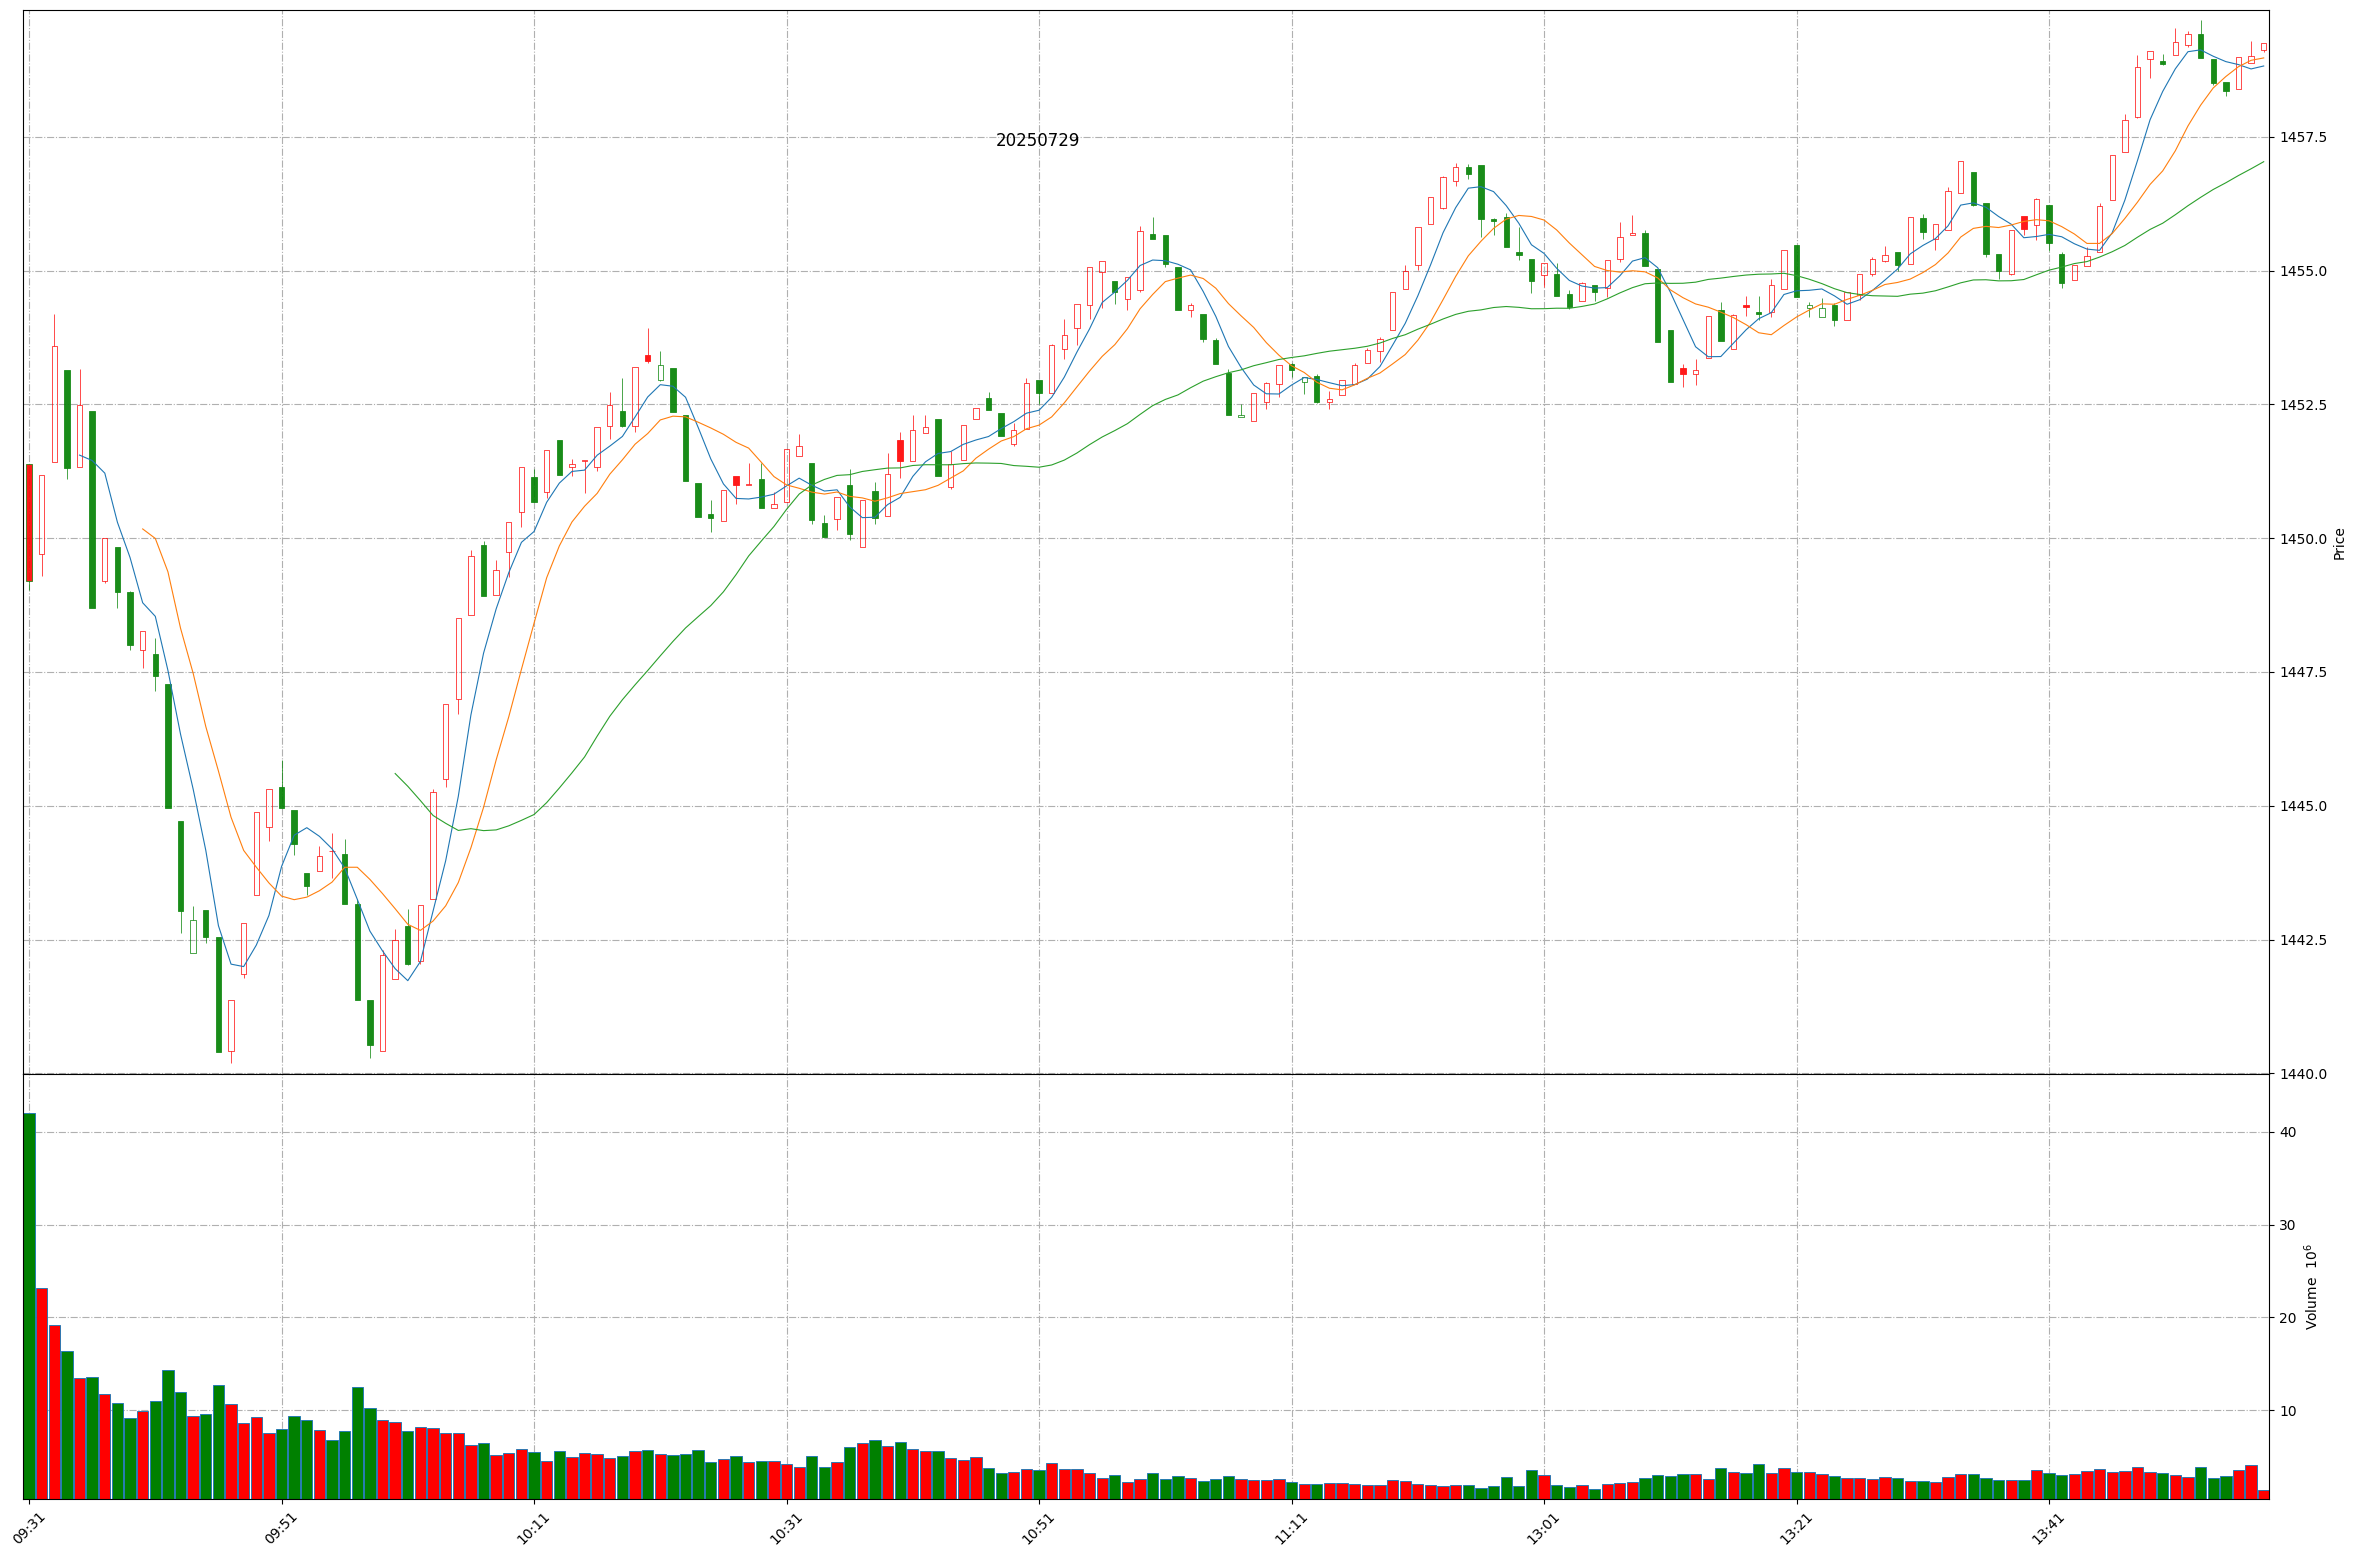
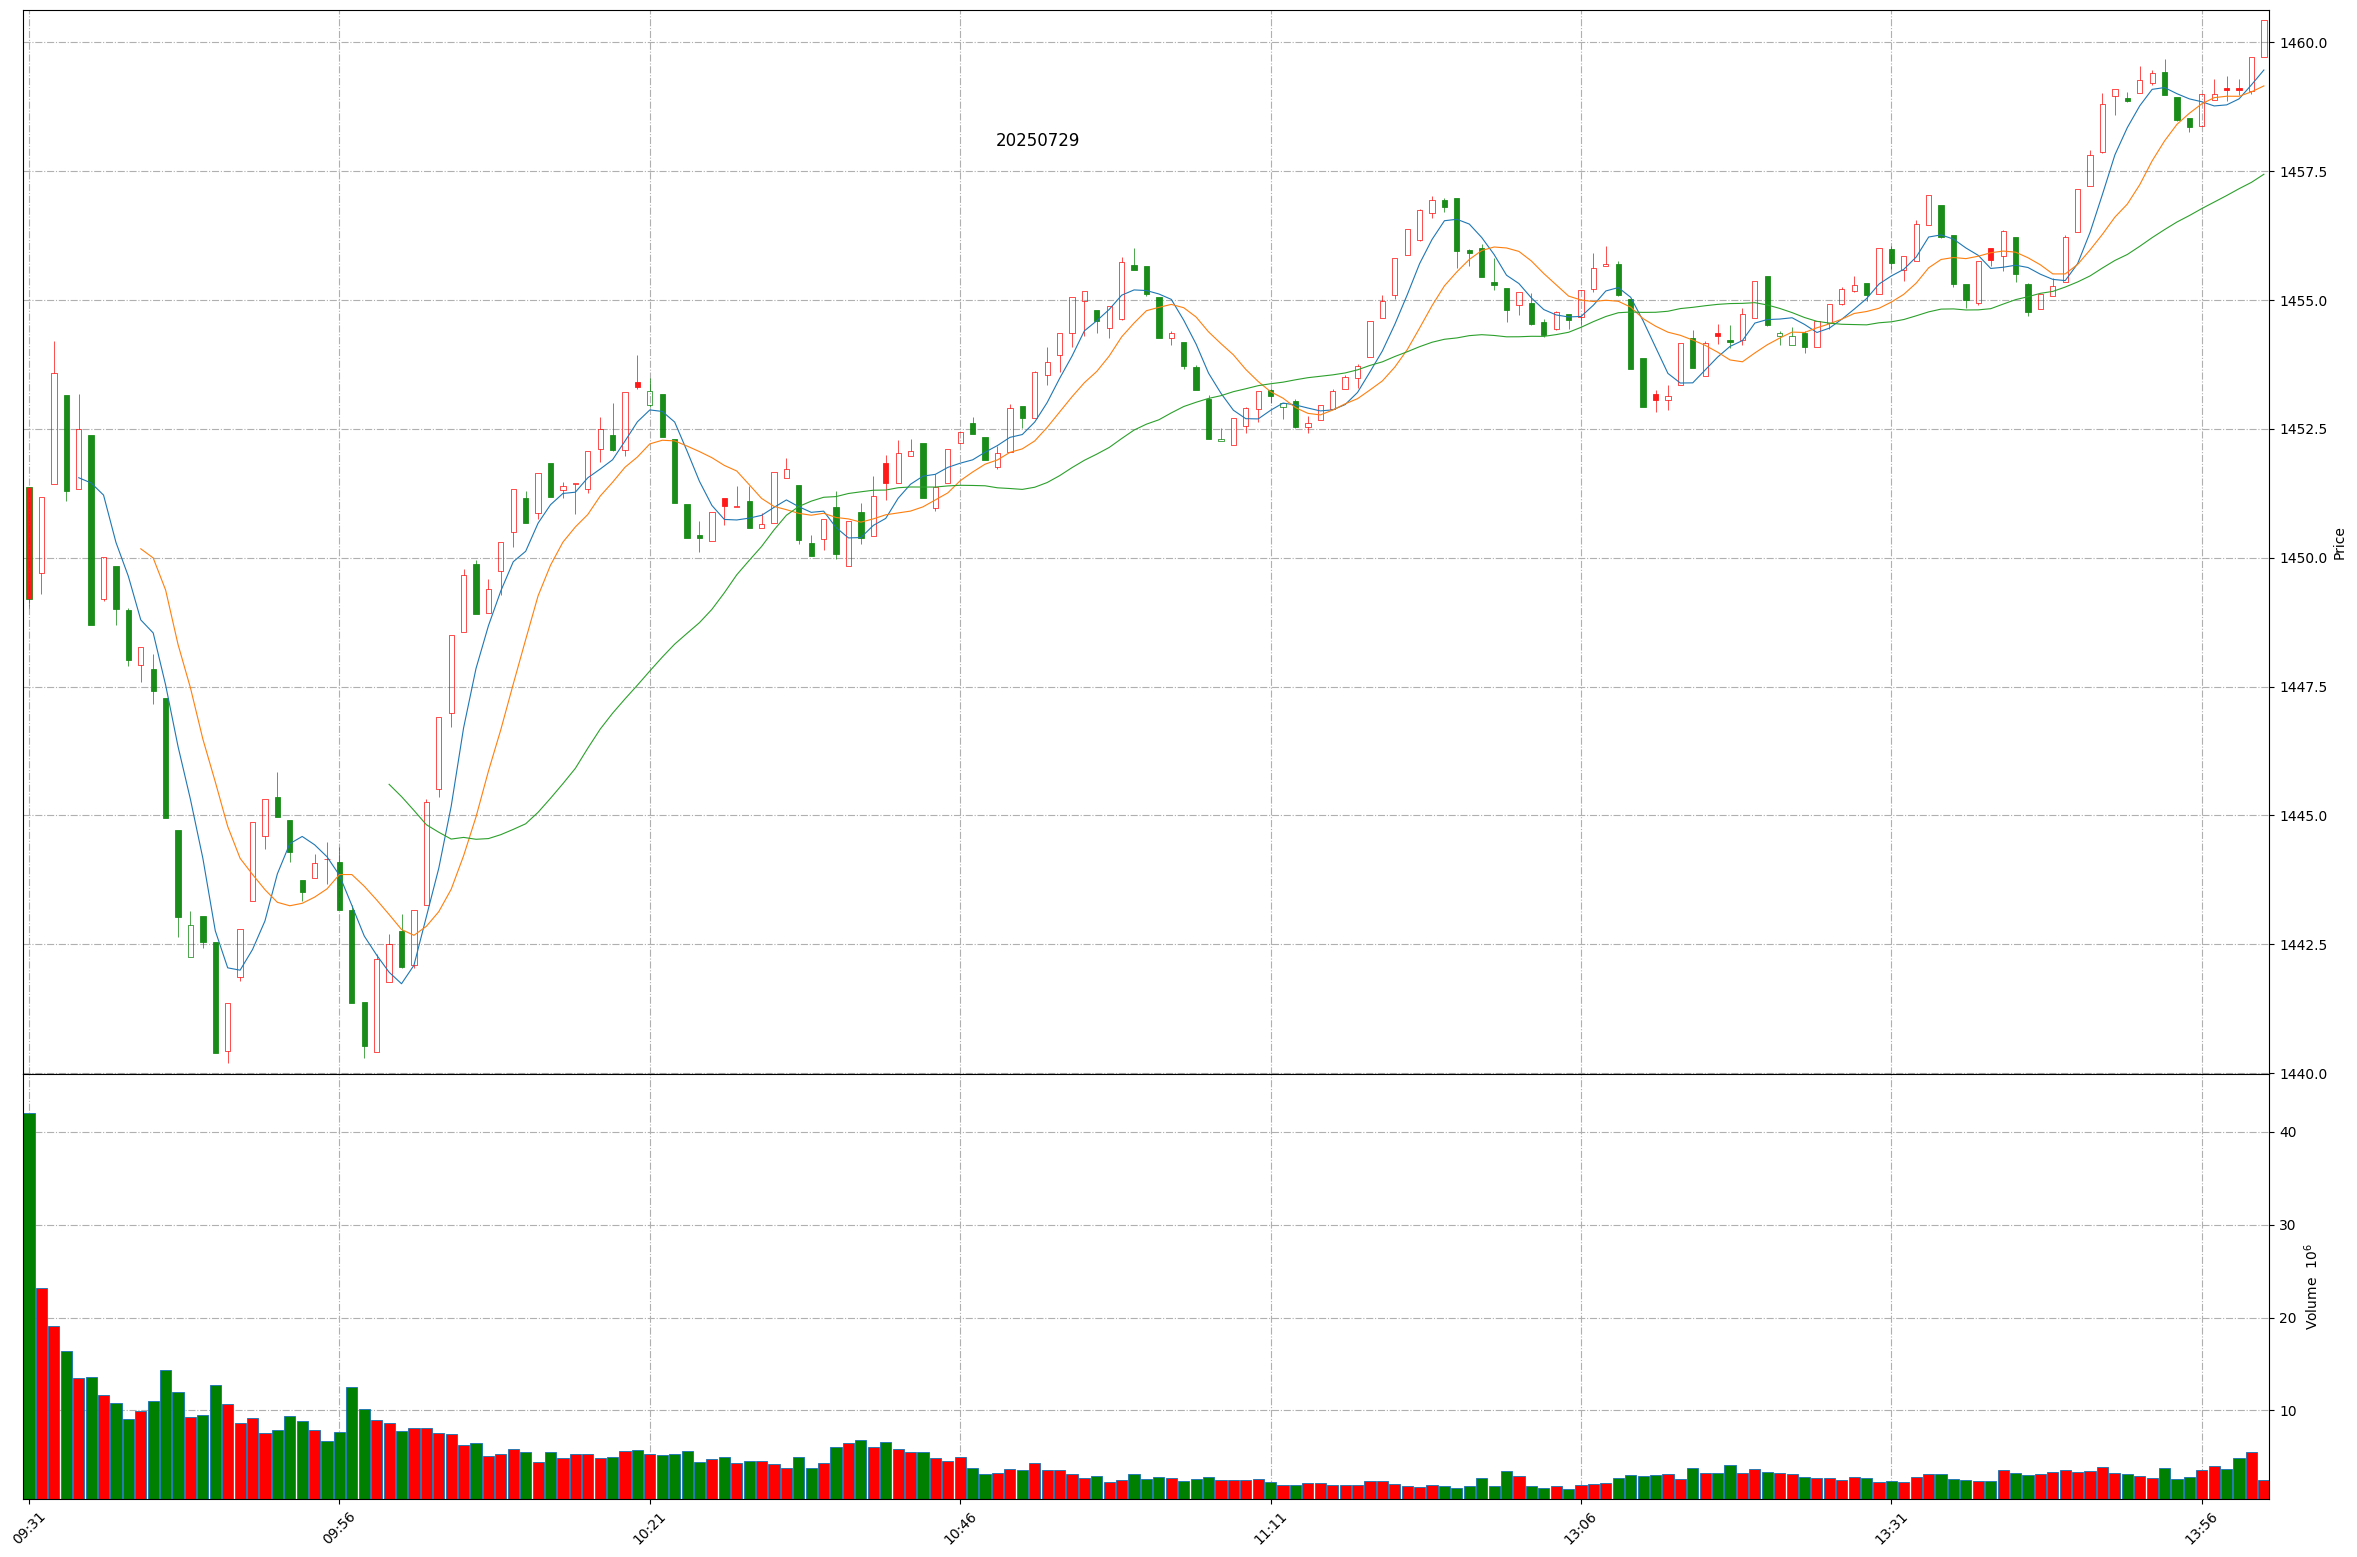
Github action update at 2025-07-29 14:00:36.

diff --git a/README.md b/README.md
@@ -1,11 +1,11 @@
 
 # Daily-A-share-market-quotes 每日 A 股指数（5min 更新）- 20250729
 
-### 上证指数 20250729 13:57
+### 上证指数 20250729 14:0
 ![](./fig/2025/7/20250729-sh000001.png)
 
-### 深证成指 20250729 13:57
+### 深证成指 20250729 14:0
 ![](./fig/2025/7/20250729-sz399001.png)
 
-### 北证50 20250729 13:57
+### 北证50 20250729 14:0
 ![](./fig/2025/7/20250729-bj899050.png)
